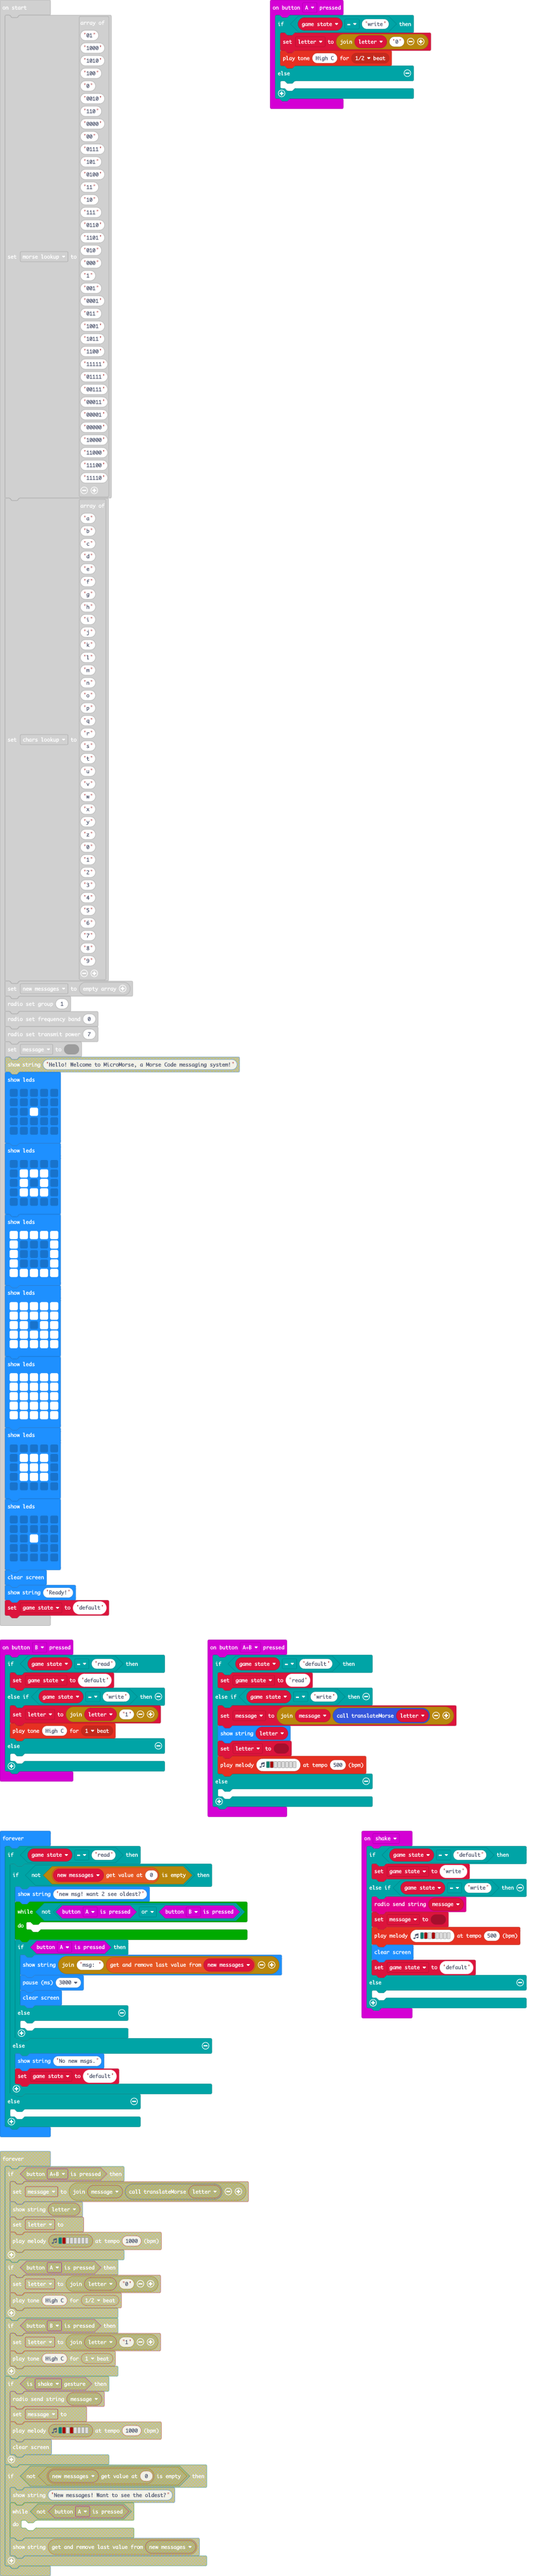
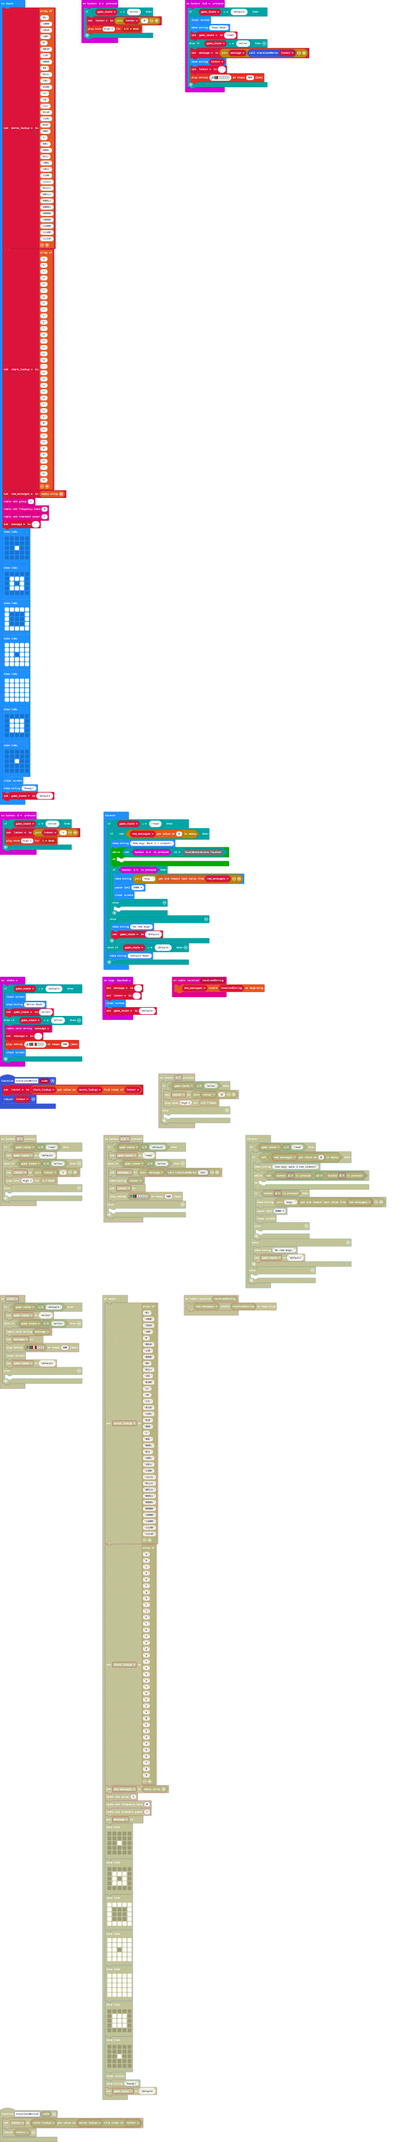
Started messing with the Javascript, made some stuff more user-friendly, but isn't done

diff --git a/main.ts b/main.ts
@@ -1,53 +1,52 @@
 input.onButtonPressed(Button.A, function () {
     if (game_state == "write") {
-        letter = "" + letter + "0"
+        letter = letter + "0"
         music.playTone(523, music.beat(BeatFraction.Half))
-    } else {
-    	
     }
 })
 input.onButtonPressed(Button.AB, function () {
     if (game_state == "default") {
+        basic.clearScreen()
+        basic.showString("Read Mode", 100)
         game_state = "read"
     } else if (game_state == "write") {
-        message = "" + message + translateMorse(letter)
-        basic.showString("" + (letter))
+        message = message + translateMorse(letter)
+        basic.showString(letter, 100)
         letter = ""
         music.playMelody("F C5 - - - - - - ", 500)
-    } else {
-    	
     }
 })
 radio.onReceivedString(function (receivedString) {
     new_messages.unshift(receivedString)
 })
 input.onButtonPressed(Button.B, function () {
-    if (game_state == "read") {
-        game_state = "default"
-    } else if (game_state == "write") {
-        letter = "" + letter + "1"
+    if (game_state == "write") {
+        letter = letter + "1"
         music.playTone(523, music.beat(BeatFraction.Whole))
-    } else {
-    	
     }
 })
 input.onGesture(Gesture.Shake, function () {
     if (game_state == "default") {
+        basic.clearScreen()
+        basic.showString("Write Mode", 100)
         game_state = "write"
     } else if (game_state == "write") {
-        radio.sendString("" + (message))
+        radio.sendString(message)
         message = ""
         music.playMelody("F C5 - C5 - - - - ", 500)
         basic.clearScreen()
-        game_state = "default"
-    } else {
-    	
     }
 })
 function translateMorse (code: string) {
     letter = chars_lookup[morse_lookup.indexOf(letter)]
     return letter
 }
+input.onLogoEvent(TouchButtonEvent.Touched, function () {
+    message = ""
+    letter = ""
+    basic.clearScreen()
+    game_state = "default"
+})
 let letter = ""
 let game_state = ""
 let message = ""
@@ -185,27 +184,27 @@ basic.showLeds(`
     . . . . .
     `)
 basic.clearScreen()
-basic.showString("Ready!")
+basic.showString("Ready!", 100)
 game_state = "default"
 basic.forever(function () {
     if (game_state == "read") {
         if (!(new_messages[0].isEmpty())) {
-            basic.showString("new msg! want 2 see oldest?")
-            while (!(input.buttonIsPressed(Button.A) || input.buttonIsPressed(Button.B))) {
+            basic.showString("New msg! Want 2 c oldest?")
+            while (!(input.buttonIsPressed(Button.A) || TouchButtonEvent.Touched)) {
             	
             }
             if (input.buttonIsPressed(Button.A)) {
-                basic.showString("msg: " + new_messages.pop())
+                basic.showString("msg: " + new_messages.pop(), 100)
                 basic.pause(3000)
                 basic.clearScreen()
             } else {
             	
             }
         } else {
-            basic.showString("No new msgs.")
+            basic.showString("No new msgs", 100)
             game_state = "default"
         }
-    } else {
-    	
+    } else if (game_state == "default") {
+        basic.showString("Default Mode", 100)
     }
 })
